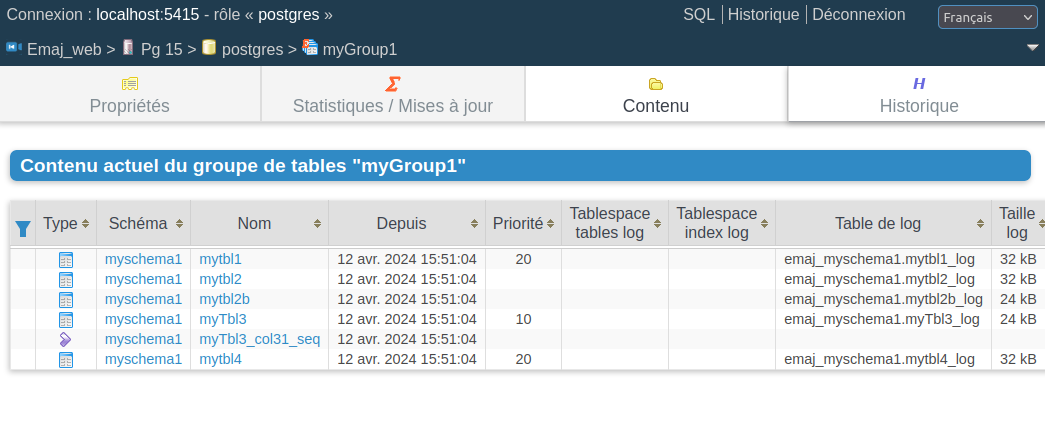
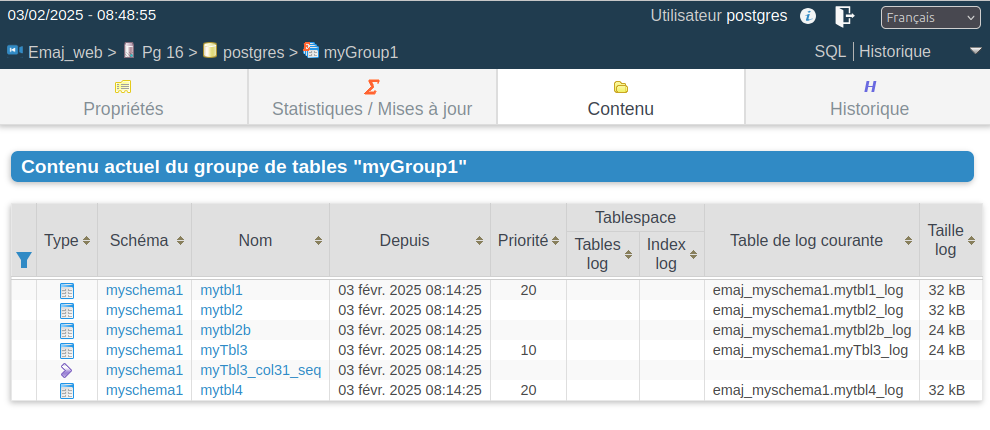
Documentation: In the 'Emaj_web usage' chapter: refresh most screenshots, add a description of tables and sequences properties tabs and add explanations about the recently introduced 'Activity' page.

diff --git a/docs/fr/webUsage.rst b/docs/fr/webUsage.rst
@@ -200,6 +200,25 @@ Pour chaque liste, on trouve les propriétés E-Maj et quelques caractéristique
 
    Figure 11 – Contenu des schémas et configuration des groupes de tables.
 
+En cliquant sur un nom de table ou de séquence ou sur une icône œil associée, on peut obtenir des détails sur les caractéristiques et le contenu de la table ou de la séquence.
+
+Pour les tables, l’onglet *"Propriétés"* montre la structure de la table, ses propriétés E-Maj (historique de rattachement aux groupes de tables) et ses éventuels triggers. L’onglet *"Contenu"* permet de visualiser les lignes présentes dans la table.
+
+.. figure:: images/emajweb_tableproperties.png
+   :align: center
+   :class: screenshot
+
+   Figure 12 – Propriétés d’une table.
+
+Pour les séquences, l’unique onglet *"Propriétés"* montre les caractéristiques de la séquence et ses propriétés E-Maj.
+
+.. figure:: images/emajweb_sequenceproperties.png
+   :align: center
+   :class: screenshot
+
+   Figure 13 – Propriétés d’une séquence.
+
+
 Triggers
 --------
 
@@ -211,7 +230,7 @@ Un bouton permet de changer le mode de désactivation lors des rollbacks E-Maj.
    :align: center
    :class: screenshot
 
-   Figure 12 – Liste des triggers applicatifs
+   Figure 14 – Liste des triggers applicatifs
 
 
 Suivre les opérations de rollback
@@ -229,7 +248,7 @@ Pour chaque rollback tracé consolidable listé, un bouton permet d’exécuter 
    :align: center
    :class: screenshot
 
-   Figure 13 – Suivi des opérations de rollback.
+   Figure 15 – Suivi des opérations de rollback.
 
 En cliquant sur un identifiant de rollback dans l’un de ces tableaux, on accède à une page présentant des informations détaillées sur le déroulement en cours ou passé de l’opération sélectionnée.
 
@@ -245,7 +264,38 @@ On y trouve plus précisément des données concernant :
    :align: center
    :class: screenshot
 
-   Figure 14 – Détails d’une opération de rollback.
+   Figure 16 – Détails d’une opération de rollback.
+
+Activité E-Maj
+--------------
+
+L’onglet *"Activité"* permet de suivre en temps réel l’activité de mise à jour des triggers de log E-Maj.
+
+.. figure:: images/emajweb_activity.png
+   :align: center
+   :class: screenshot
+
+   Figure 17 – Activité E-Maj.
+
+Le formulaire en haut de page permet de définir ce que l’on veut suivre, par défaut les 5 groupes de tables les plus actifs, les 20 tables et les 20 séquences les plus actives. Des expressions rationnelles peuvent être valorisées pour filtrer (inclure ou exclure) les groupes de tables, tables et séquences.
+
+Sous le formulaire, sont affichés les indicateurs d’activité :
+
+* au niveau global (tout groupes de tables confondus),
+* pour les groupes de tables sélectionnés,
+* pour les tables sélectionnées des groupes de tables sélectionnés,
+* pour les séquences sélectionnées des groupes de tables sélectionnés.
+
+Quatre indicateurs d’activité sont calculés :
+
+* le nombre de mises à jour depuis la dernière marque posée pour le groupe de tables,
+* le débit depuis la dernière marque, exprimé en nombre de mises à jour par seconde,
+* le nombre de mises à jour depuis le dernier affichage,
+* le débit depuis le dernier affichage.
+
+Les groupes, tables et séquences sont triés par ordre décroissant du nombre de mises à jour soit depuis le dernier affichage (valeur par défaut), soit depuis la dernière marque.
+
+La page peut être rafraichie soit manuellement soit automatiquement. Le délai de rafraichissement automatique est configurable pour l’installation Emaj_web (10 secondes par défaut).
 
 État de l'environnement E-Maj
 -----------------------------
@@ -268,4 +318,4 @@ Deux boutons en bas de page permettent d’exporter ou d’importer une configur
    :align: center
    :class: screenshot
 
-   Figure 15 – État de l'environnement E-Maj 
+   Figure 18 – État de l'environnement E-Maj 

diff --git a/docs/en/webUsage.rst b/docs/en/webUsage.rst
@@ -200,10 +200,28 @@ For both lists, the E-Maj properties and some general properties of each object 
 
    Figure 11 – Schema content and tables groups configuration.
 
+By clicking on a table or sequence name or on an eye icon, one gets details about the table or sequence characteristics and content.
+
+Regarding tables, the *"Properties"* tab shows the table structure, its E-Maj properties (the history of the group assignments) and its triggers. The *"Content"* tab allows to visualize the table rows.
+
+.. figure:: images/emajweb_tableproperties.png
+   :align: center
+   :class: screenshot
+
+   Figure 12 – Table properties.
+
+Regarding sequences, the unique *"Properties"* tab shows the sequence characteristics and its E-Maj properties.
+
+.. figure:: images/emajweb_sequenceproperties.png
+   :align: center
+   :class: screenshot
+
+   Figure 13 – Sequence properties.
+
 Triggers
 --------
 
-The "*Triggers*"tab lists the application triggers (those not linked to E-Maj), with their main characteristics. 
+The "*Triggers*" tab lists the application triggers (those not linked to E-Maj), with their main characteristics. 
 
 A button allows to switch their de-activation mode at E-Maj rollback time.
 
@@ -211,7 +229,7 @@ A button allows to switch their de-activation mode at E-Maj rollback time.
    :align: center
    :class: screenshot
 
-   Figure 12 – Application triggers list.
+   Figure 14 – Application triggers list.
 
 Monitoring rollback operations
 ------------------------------
@@ -228,7 +246,7 @@ For each consolidable rollback, a button allows to effectively consolidate the o
    :align: center
    :class: screenshot
 
-   Figure 13 – Rollback operations monitoring.
+   Figure 15 – Rollback operations monitoring.
 
 Clicking on a rollback identifier in one of these tables displays a page that shows information details about the selected in progress or completed operation.
 
@@ -244,7 +262,38 @@ More precisely, are displayed:
    :align: center
    :class: screenshot
 
-   Figure 14 – Details of a Rollback operation.
+   Figure 16 – Details of a Rollback operation.
+
+E-Maj activity
+--------------
+
+The *"Activity"* tab allows to monitor in real time the activity of E-Maj log triggers.
+
+.. figure:: images/emajweb_activity.png
+   :align: center
+   :class: screenshot
+
+   Figure 17 – E-Maj activity.
+
+At the page top, the form alllows to define the monitoring wishes, by default the 5 most active tables groups, the 20 most active tables and the 20 most active sequences. Regular expressions may be set to filter (include or exclude) tables groups, tables and sequences.
+
+The activity indicators are displayed under the form:
+
+* at a global level (all groups, tables and sequences),
+* for the selected tables groups,
+* for the selected tables of selected tables groups,
+* for the selected sequences of selected tables groups.
+
+Four activity indicators are computed:
+
+* the number of changes since the latest mark set for the tables group,
+* the throughput since the latest mark, in number of changes per second,
+* the number of changes since the last display,
+* the throughput since the last display.
+
+Groups, tables and sequences are displayed and filtered in descending order by the number of changes since either the last display (by default) or the latest mark.
+
+The page can be refreshed either manually or automatically. The automatic refresh delay is set in the Emaj_web configuration (10 seconds by default).
 
 E-Maj environment state
 -----------------------
@@ -267,4 +316,4 @@ Two buttons allow to export and import parameters configurations to or from a lo
    :align: center
    :class: screenshot
 
-   Figure 15 – The E-Maj environment state.
+   Figure 18 – The E-Maj environment state.
